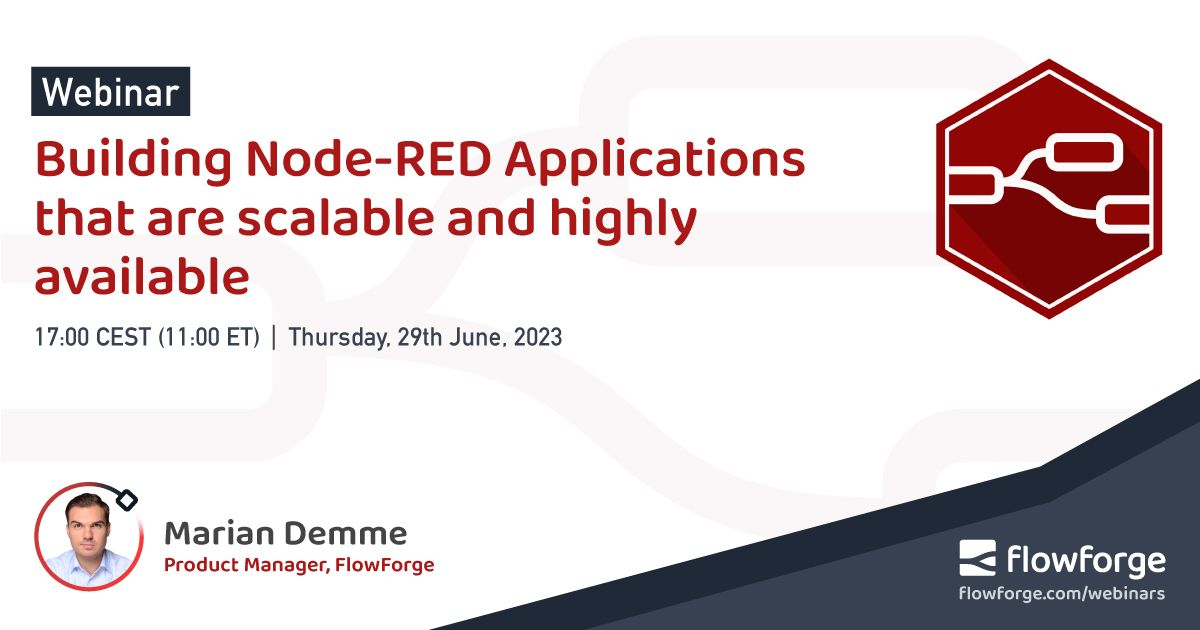
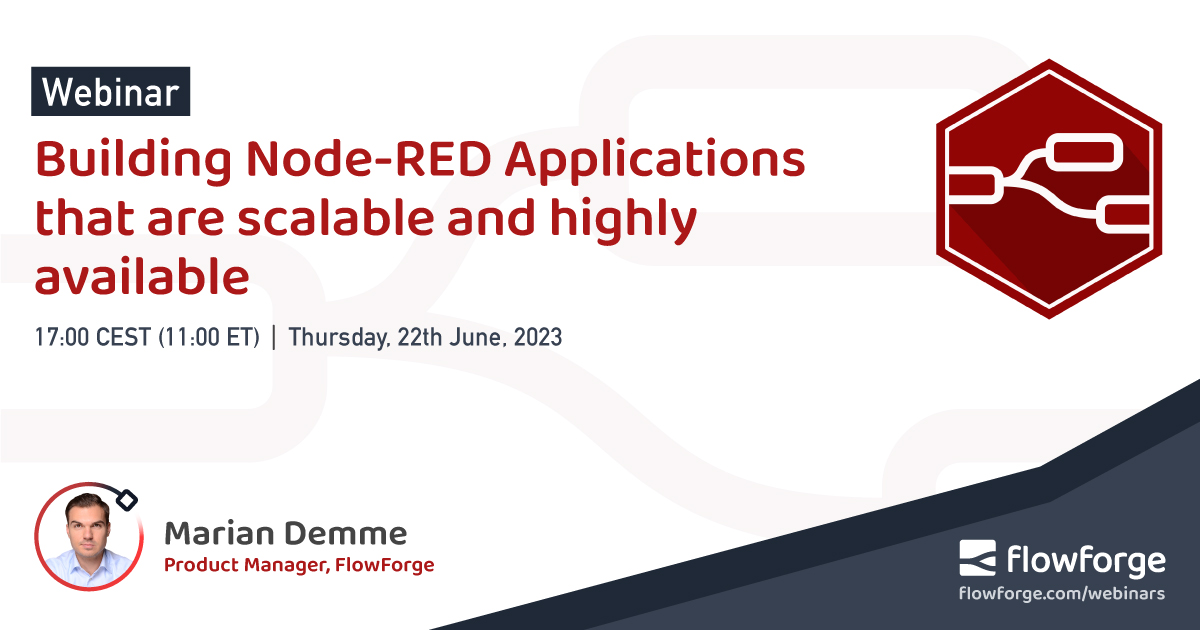
Updated tile image and date - June 22

diff --git a/src/webinars/2023/building-scalable-ha-node-red.md b/src/webinars/2023/building-scalable-ha-node-red.md
@@ -3,7 +3,7 @@ title: "Building Node-RED Applications for Scalability and High Availability"
 subtitle: Join Marian Demme, FlowForge Product Manger, to learn how to build Node-RED applications that can scale and be highly available.
 image: /images/webinars/webinar-june.jpg
 video: 
-date: 2023-06-29
+date: 2023-06-22
 time: 17:00 CEST (11:00 ET) 
 duration: 60
 hosts: ["marian-demme"]
